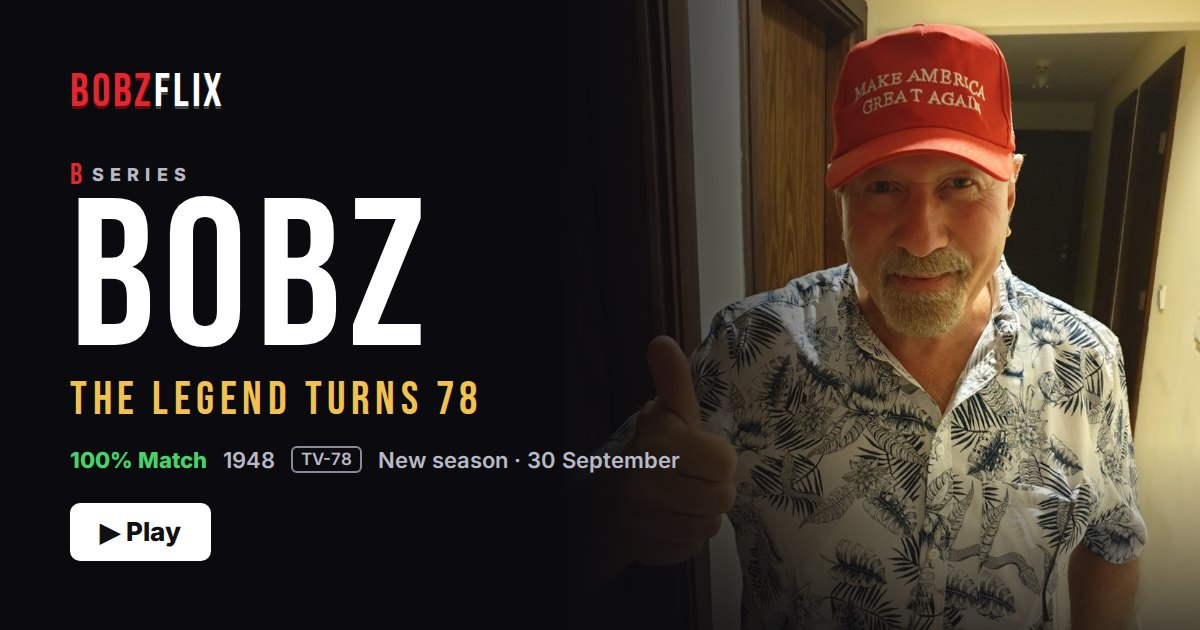
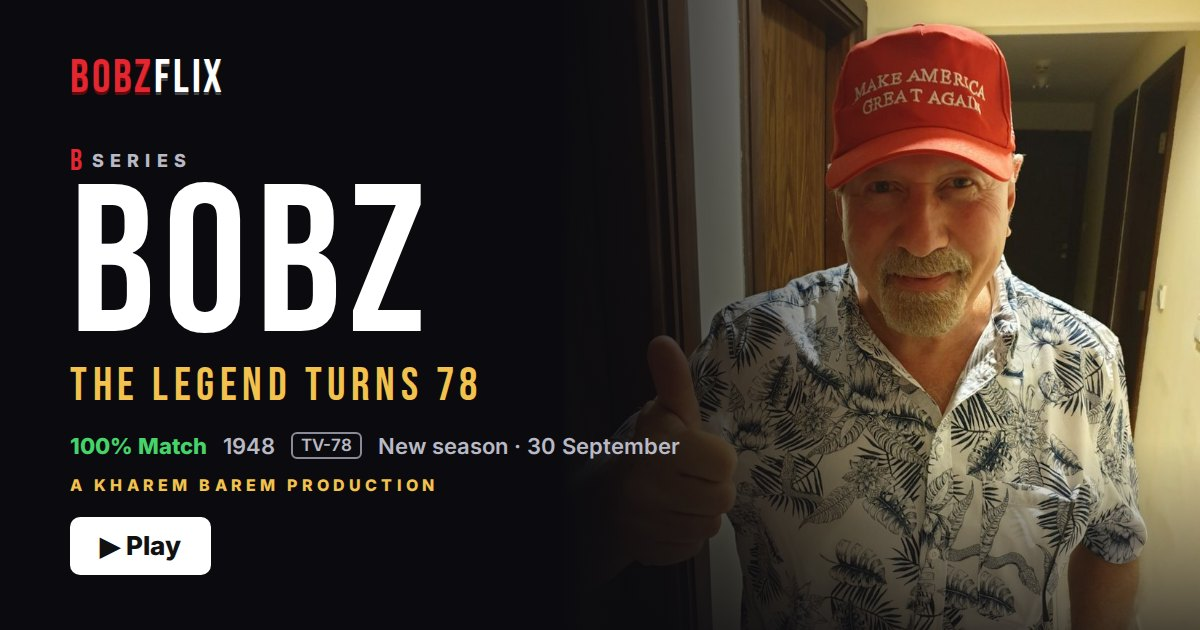
Credit Dad's show to Kharem Barem Productions
The studio name Bobz uses to tease film credits now presents the trailer,
every episode title card, the BOBZ (1948) poster, the home screen, the end
credits, the link-preview poster and the email footer.

Claude-Session: https://claude.ai/code/session_01U5zMTx94aMJoiwpwKc24Wv

Changed region(s): [[0.0617, 0.2413, 0.5858, 0.9349], [0.0617, 0.0905, 0.185, 0.181]]

diff --git a/bobz/bobz.css b/bobz/bobz.css
@@ -181,6 +181,7 @@ body[data-screen="tv"] #bar, body[data-screen="profiles"] #bar { display: none; 
 .pill { padding: 1px 6px; border: 1px solid var(--ink3); border-radius: 4px; font-size: 12px; }
 .hero-btns { display: grid; grid-template-columns: 1fr 1fr; gap: 10px; }
 .hero-desc { margin: 14px 0 0; font-size: 15px; color: var(--ink2); }
+.studio { margin: 10px 0 0; font: 700 11px/1.3 var(--f-ui); letter-spacing: .24em; text-transform: uppercase; color: var(--gold); opacity: .85; }
 .row { width: 100%; max-width: 900px; margin: 22px auto 0; padding: 0 16px; }
 .row-title { margin: 0 0 10px; font: 800 19px/1.2 var(--f-ui); }
 .eps { list-style: none; margin: 0; padding: 0; display: grid; gap: 10px; }
@@ -651,6 +652,8 @@ body[data-screen="tv"] #bar, body[data-screen="profiles"] #bar { display: none; 
 /* ───────── Overlays ───────── */
 #titlecard { position: fixed; inset: 0; z-index: 70; display: grid; place-content: center; gap: 6px; padding: 20px; background: #000; text-align: center; opacity: 0; visibility: hidden; transition: opacity .3s, visibility 0s linear .3s; }
 #titlecard.show { opacity: 1; visibility: visible; transition: opacity .3s; }
+.tc-studio { margin: 0 0 14px; font: italic 600 15px/1.3 var(--f-serif); letter-spacing: .08em; color: var(--gold); opacity: 0; }
+#titlecard.show .tc-studio { animation: fadeUp .6s .1s both; }
 .tc-num { margin: 0; font: 400 22px/1 var(--f-disp); letter-spacing: .2em; color: var(--red); }
 .tc-title { margin: 0; font: 400 clamp(44px, 13vw, 76px)/.95 var(--f-disp); letter-spacing: .03em; }
 #titlecard.show .tc-title { animation: tcIn 1.3s ease-out both; }
@@ -677,6 +680,10 @@ body[data-screen="tv"] #bar, body[data-screen="profiles"] #bar { display: none; 
 .tr-cap.ar { font-family: var(--f-ar); letter-spacing: 0; }
 .tr-cap.in { animation: capIn .6s ease-out both; }
 @keyframes capIn { from { opacity: 0; transform: scale(1.08); letter-spacing: .14em; } }
+.tr-studio { position: absolute; left: 0; right: 0; top: calc(15% + var(--safe-t)); z-index: 2; margin: 0; padding: 0 20px; text-align: center; font: 700 clamp(15px, 4.4vw, 22px)/1.3 var(--f-serif); letter-spacing: .22em; text-transform: uppercase; color: #fff; text-shadow: 0 2px 16px rgba(0, 0, 0, .9); opacity: 0; transition: opacity .9s; pointer-events: none; }
+.tr-studio span { color: var(--gold); }
+.tr-studio small { display: block; margin-top: 4px; font: italic 600 clamp(14px, 3.8vw, 18px)/1.2 var(--f-serif); letter-spacing: .06em; text-transform: none; color: var(--ink2); }
+.tr-studio.on { opacity: 1; }
 .tr-bar { position: absolute; left: 0; right: 0; bottom: 0; height: 4px; background: rgba(255, 255, 255, .15); z-index: 2; }
 .tr-bar i { display: block; height: 100%; width: 0; background: var(--red); }
 .tr-skip { position: absolute; right: 14px; top: calc(14px + var(--safe-t)); z-index: 3; min-height: 42px; padding: 0 16px; border: 1px solid rgba(255, 255, 255, .5); border-radius: 8px; background: rgba(0, 0, 0, .45); font: 800 15px/1 var(--f-ui); }

diff --git a/bobz/index.html b/bobz/index.html
@@ -80,6 +80,7 @@
           <button class="btn ghost" id="trailer-btn" type="button">🎬 Trailer</button>
         </div>
         <p class="hero-desc">He retired at 50 to watch every film ever made. Now the man, the myth, the Turkish-coffee legend returns for his biggest season yet.</p>
+        <p class="studio">A Kharem Barem Production</p>
       </div>
     </div>
 
@@ -555,7 +556,7 @@
 
       <section class="credits reveal" id="credits" aria-label="End credits">
         <div class="cr-window"><div class="cr-roll" id="cr-roll">
-          <p class="cr-top">BOBZFLIX presents</p>
+          <p class="cr-top">Kharem Barem Productions presents</p>
           <p class="cr-big">BOBZ<br><small>The Legend Turns 78</small></p>
           <p class="cr-h">Starring</p><p>Sadig Mahmoud Ramzi <i>as</i> Bobz</p>
           <p class="cr-h">Also starring</p>
@@ -569,9 +570,10 @@
           <p class="cr-h">Special thanks</p>
           <p>Every western ever made</p><p>Seat 1A</p><p>The family WhatsApp group</p>
           <p class="cr-h">Filmed on location in</p><p>Al-Rehab City, Egypt 🇪🇬</p>
+          <p class="cr-h">Produced by</p><p>Kharem Barem Productions</p>
           <p class="cr-h">Made with love by</p><p><span class="from">Omar</span></p>
           <p class="cr-note">No films were tafee in the making of this card.</p>
-          <p class="cr-top">© 1948 – forever · BOBZFLIX Studios</p>
+          <p class="cr-top">© 1948 – forever · Kharem Barem Productions</p>
         </div></div>
         <button class="btn ghost" id="roll" type="button">▶ Roll the credits</button>
       </section>
@@ -588,7 +590,7 @@
 </main>
 
 <!-- Episode title card -->
-<div id="titlecard" aria-hidden="true"><p class="tc-num" id="tc-num"></p><p class="tc-title" id="tc-title"></p></div>
+<div id="titlecard" aria-hidden="true"><p class="tc-studio">Kharem Barem Productions presents</p><p class="tc-num" id="tc-num"></p><p class="tc-title" id="tc-title"></p></div>
 
 <!-- Trailer -->
 <div id="trailer" role="dialog" aria-label="Trailer" hidden>
@@ -600,6 +602,7 @@
     <div class="tr-slide" data-from="21.9"><img src="photos/thumbs-up.jpg" alt=""></div>
     <div class="tr-slide" data-from="26.6"><div class="tr-logo"><span class="logo xl">BOBZ<span>FLIX</span></span></div></div>
   </div>
+  <p class="tr-studio" id="tr-studio"><span>Kharem Barem</span> Productions<small>presents</small></p>
   <p class="tr-cap" id="tr-cap" aria-live="polite"></p>
   <div class="tr-bar"><i id="tr-fill"></i></div>
   <button class="tr-skip" id="tr-skip" type="button">Skip ›</button>

diff --git a/bobz/bobz.js b/bobz/bobz.js
@@ -350,7 +350,7 @@
 
   /* ───────── Trailer (the voice-over, with captions and pictures) ───────── */
   const Trailer = (() => {
-    const box = $('#trailer'), a = $('#trailer-audio'), cap = $('#tr-cap'), fill = $('#tr-fill');
+    const box = $('#trailer'), a = $('#trailer-audio'), cap = $('#tr-cap'), fill = $('#tr-fill'), studio = $('#tr-studio');
     const slides = $$('.tr-slide', box);
     const LEN = 33.8;
     const CUES = [
@@ -391,6 +391,7 @@
         if (s === slides.length - 1) Sound.boom();
       }
       fill.style.width = Math.min(100, (t / LEN) * 100) + '%';
+      studio.classList.toggle('on', t < 8.6);
       if (t >= LEN + 1.2) { close(); return; }
       raf = requestAnimationFrame(frame);
     }
@@ -415,6 +416,7 @@
       cancelAnimationFrame(raf);
       a.pause();
       box.hidden = true;
+      studio.classList.remove('on');
       slides.forEach(el => el.classList.remove('on'));
       const fn = after; after = null;
       if (fn) fn();
@@ -902,7 +904,7 @@
       { top: 'In 3D, for 3 hours', title: 'Space Robots vs. More Space Robots', tag: 'Part 7 of 12. Zero plot.', art: '🤖🚀', bg: 'linear-gradient(160deg,#3a7bd5,#1b1b4b 60%,#05050f)', meta: 'Sequel to the prequel', bad: true },
       { top: 'A western classic', title: 'The Good, the Bad & the Birthday', tag: 'Real cowboys. Real dust.', art: '🤠🌵', bg: 'linear-gradient(160deg,#f6b352,#a0522d 55%,#2b1308)', meta: '1966 · Technicolor', good: true },
       { top: 'Nobody asked for this', title: 'Love in the Rain (Again)', tag: 'Two hours of staring out of windows.', art: '💕🌧', bg: 'linear-gradient(160deg,#ff9a9e,#a18cd1 60%,#2b1b3b)', meta: 'Rom-com · 2h 41m', bad: true },
-      { top: 'A BOBZFLIX Original', title: 'BOBZ (1948)', tag: 'The director’s cut. 78 years in the making.', img: 'photos/thumbs-up.jpg', bg: 'linear-gradient(180deg,#1a1a1a,#000)', meta: 'Rated T for Tremendous', bobz: true },
+      { top: 'Kharem Barem Productions presents', title: 'BOBZ (1948)', tag: 'The director’s cut. 78 years in the making.', img: 'photos/thumbs-up.jpg', bg: 'linear-gradient(180deg,#1a1a1a,#000)', meta: 'Rated T for Tremendous', bobz: true },
     ];
     let i = 0, reviewed = 0, tafee = 0, lock = false, dodges = 0;
     function render() {

diff --git a/bobz/email/index.html b/bobz/email/index.html
@@ -74,7 +74,7 @@
             </td>
           </tr>
         </table>
-        <p style="margin:18px 0 0;font-family:'Helvetica Neue',Helvetica,Arial,sans-serif;font-size:12px;line-height:18px;color:#6f6f7d;">BOBZFLIX &middot; New episodes every 30th of September &middot; No films tafee</p>
+        <p style="margin:18px 0 0;font-family:'Helvetica Neue',Helvetica,Arial,sans-serif;font-size:12px;line-height:18px;color:#6f6f7d;">BOBZFLIX &middot; A Kharem Barem Production &middot; No films tafee</p>
       </td>
     </tr>
   </table>
